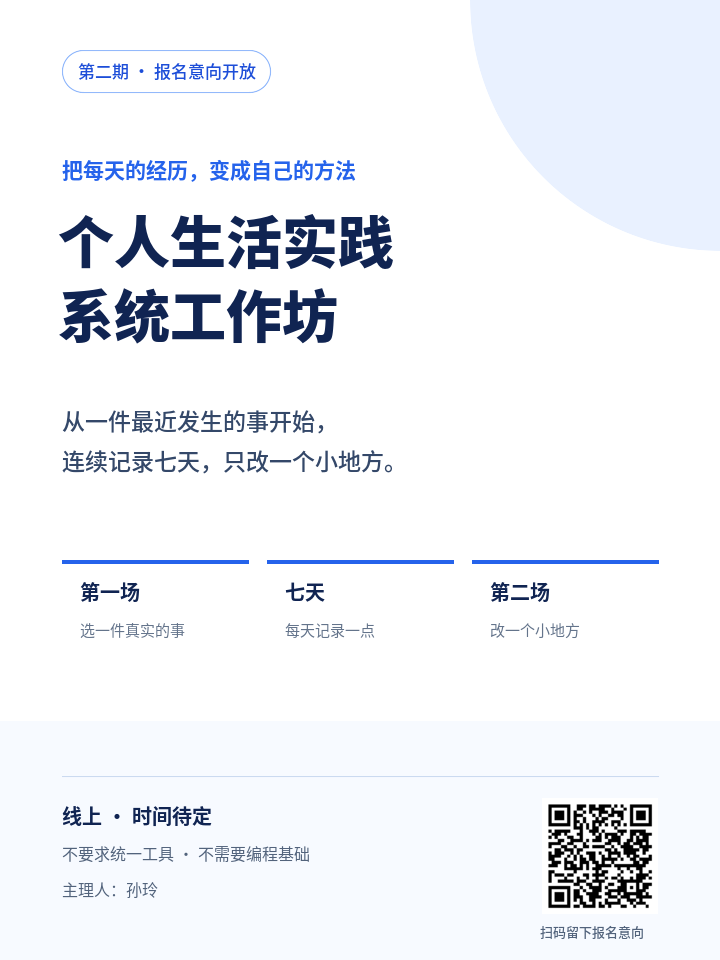
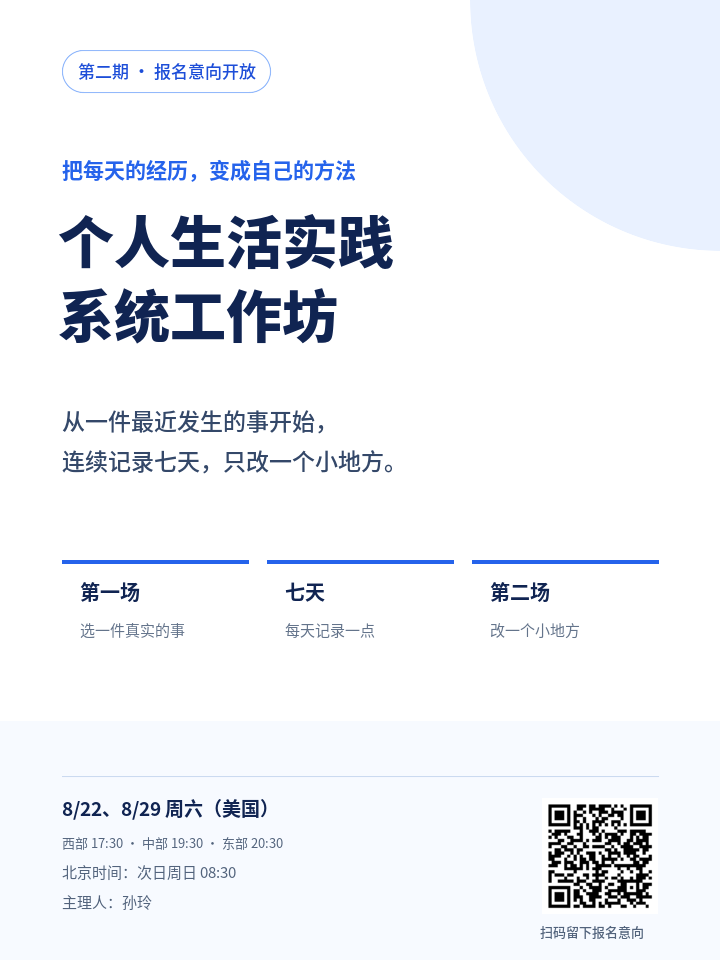
set second workshop dates

Changed region(s): [[0.0917, 0.8125, 0.4278, 0.9688]]

diff --git a/input-output-workshop-second.html b/input-output-workshop-second.html
@@ -4,7 +4,7 @@
   <meta charset="UTF-8" />
   <meta name="viewport" content="width=device-width, initial-scale=1.0" />
   <title>个人生活实践系统工作坊｜第二期</title>
-  <meta name="description" content="从最近一件真实发生的事开始，连续记录七天，找到一个反复卡住的地方，做出一个马上能用的小方法。第二期时间待定。" />
+  <meta name="description" content="从最近一件真实发生的事开始，连续记录七天，找到一个反复卡住的地方，做出一个马上能用的小方法。8 月 22 日与 29 日线上见。" />
   <meta property="og:title" content="个人生活实践系统工作坊｜第二期" />
   <meta property="og:description" content="把每天发生的事记下来，找到一个反复卡住的地方，做出一个马上能用的小方法。" />
   <meta property="og:image" content="/assets/input-output-workshop-second-poster.png" />
@@ -22,8 +22,13 @@
     h1 { max-width:760px; margin-bottom:22px; color:var(--navy); font-size:clamp(42px,7vw,72px); line-height:1.06; letter-spacing:-.05em; }
     .belief { max-width:700px; margin-bottom:20px; color:var(--navy); font-size:clamp(23px,3.5vw,32px); font-weight:850; line-height:1.45; }
     .lead { max-width:700px; color:#46556d; font-size:18px; line-height:1.85; }
-    .facts { display:flex; flex-wrap:wrap; gap:10px; margin:30px 0; }
+    .facts { display:flex; flex-wrap:wrap; gap:10px; margin:30px 0 16px; }
     .facts span { padding:9px 12px; border-radius:10px; background:#eaf2ff; color:#264b87; font-size:14px; font-weight:750; }
+    .schedule { display:grid; grid-template-columns:repeat(2,minmax(0,1fr)); gap:12px; max-width:760px; margin:0 0 28px; }
+    .schedule article { padding:18px 20px; border:1px solid var(--line); border-radius:14px; background:#fff; }
+    .schedule .number { margin-bottom:10px; }
+    .schedule strong { display:block; color:var(--navy); line-height:1.55; }
+    .schedule p { margin:5px 0; color:#52637c; font-size:14px; line-height:1.6; }
     .button { display:inline-flex; align-items:center; justify-content:center; min-height:48px; padding:0 20px; border:0; border-radius:12px; background:var(--blue); color:#fff; font:inherit; font-weight:800; text-decoration:none; cursor:pointer; }
     section { margin-top:88px; }
     section>h2 { margin-bottom:12px; color:var(--navy); font-size:clamp(28px,4vw,38px); letter-spacing:-.03em; }
@@ -58,7 +63,7 @@
     #form-status.success { color:#15803d; }
     #form-status.error { color:#b91c1c; }
     footer { margin-top:72px; padding-top:24px; border-top:1px solid var(--line); color:var(--muted); font-size:14px; }
-    @media(max-width:720px){ .page{width:min(100% - 28px,920px)} nav{margin-bottom:44px}.steps,.takeaways,.problems,.demo,.signup{grid-template-columns:1fr}.demo{padding:26px}section{margin-top:64px}.card{padding:20px} }
+    @media(max-width:720px){ .page{width:min(100% - 28px,920px)} nav{margin-bottom:44px}.steps,.takeaways,.problems,.schedule,.demo,.signup{grid-template-columns:1fr}.demo{padding:26px}section{margin-top:64px}.card{padding:20px} }
   </style>
 </head>
 <body>
@@ -71,7 +76,21 @@
       <p class="belief">把每天发生的事记下来，找到一个反复卡住的地方，做出一个马上能用的小方法。</p>
       <p class="lead">两次线上工作坊，中间连续记录七天。你不需要先换工具，也不用先搭一套完整系统。我们就从最近一件真实发生的事开始。</p>
       <div class="facts" aria-label="工作坊信息">
-        <span>第一场 60 分钟</span><span>7 天真实记录</span><span>第二场 60–90 分钟</span><span>线上 · 时间待定</span>
+        <span>第一场 60 分钟</span><span>7 天真实记录</span><span>第二场 60–90 分钟</span><span>线上进行</span>
+      </div>
+      <div class="schedule" aria-label="工作坊时间">
+        <article>
+          <span class="number">第一场</span>
+          <strong>美国：8 月 22 日（周六）</strong>
+          <p>西部 17:30 · 中部 19:30 · 东部 20:30</p>
+          <strong>北京：8 月 23 日（周日）08:30</strong>
+        </article>
+        <article>
+          <span class="number">第二场</span>
+          <strong>美国：8 月 29 日（周六）</strong>
+          <p>西部 17:30 · 中部 19:30 · 东部 20:30</p>
+          <strong>北京：8 月 30 日（周日）08:30</strong>
+        </article>
       </div>
       <a class="button" href="#signup">留下报名意向</a>
     </header>
@@ -127,7 +146,7 @@
     <section class="signup" id="signup" aria-labelledby="signup-title">
       <div class="signup-copy">
         <h2 id="signup-title">留下报名意向</h2>
-        <p>第二期时间暂定。留下信息后，时间和具体安排确认时，我会通过微信或邮箱联系你。</p>
+        <p>两场时间已经确定。提交后，我会通过微信或邮箱联系你，发送后续安排。</p>
         <p>这不是付款页，也不会因为填写就产生报名费用。</p>
       </div>
       <form id="signup-form" novalidate>
@@ -143,7 +162,7 @@
         </label>
         <label>你最近最想改变的一件具体事情是什么？ <span>*</span><textarea name="main_challenge" required maxlength="1500" placeholder="比如：每天记了很多但从不回看；有想法却很难写下来；同一件工作每次都要从头处理。"></textarea></label>
         <label>还有什么想告诉我？ <span>选填</span><textarea name="expectation" maxlength="1500" placeholder="如果你愿意参与第二场的现场共创，也可以写下现在使用的工具和想解决的问题。"></textarea></label>
-        <input type="hidden" name="stage" value="第二期报名意向｜时间待定" />
+        <input type="hidden" name="stage" value="第二期工作坊｜2026-08-22" />
         <label class="honeypot" aria-hidden="true">网站<input name="website" tabindex="-1" autocomplete="off" /></label>
         <button class="button" type="submit">提交报名意向</button>
         <p class="form-note">你的信息只用于本次工作坊联络。</p>

diff --git a/poster-second.html b/poster-second.html
@@ -22,7 +22,7 @@
       </div>
     </div>
     <div class="bottom">
-      <div class="meta"><strong>线上 · 时间待定</strong>不要求统一工具 · 不需要编程基础<br />主理人：孙玲</div>
+      <div class="meta"><strong>8/22、8/29 周六（美国）</strong>西部 17:30 · 中部 19:30 · 东部 20:30<br />北京时间：次日周日 08:30<br />主理人：孙玲</div>
       <div class="qr"><img src="assets/input-output-workshop-second-qr.png" alt="第二期报名页面二维码" />扫码留下报名意向</div>
     </div>
   </main>

diff --git a/workshops.html b/workshops.html
@@ -25,7 +25,7 @@
 
       <section class="workshop-list" aria-label="已完成的工作坊">
         <article class="workshop-card workshop-card--featured">
-          <div class="workshop-meta"><span>第二期报名意向开放</span><time>时间待定</time></div>
+          <div class="workshop-meta"><span>第二期报名意向开放</span><time datetime="2026-08-22">8.22–8.29</time></div>
           <h2>个人生活实践系统工作坊</h2>
           <p class="workshop-tagline">把每天的经历，变成自己的方法。</p>
           <p>

diff --git a/netlify/functions/lib/workshopSignup.js b/netlify/functions/lib/workshopSignup.js
@@ -8,6 +8,10 @@ const SIGNUP_OPTIONS = new Map([
     cohort: "second-2026-08",
     source: "bysunling.com/input-output-workshop-second.html",
   }],
+  ["第二期工作坊｜2026-08-22", {
+    cohort: "second-2026-08",
+    source: "bysunling.com/input-output-workshop-second.html",
+  }],
 ]);
 
 const MAX_LENGTHS = {
